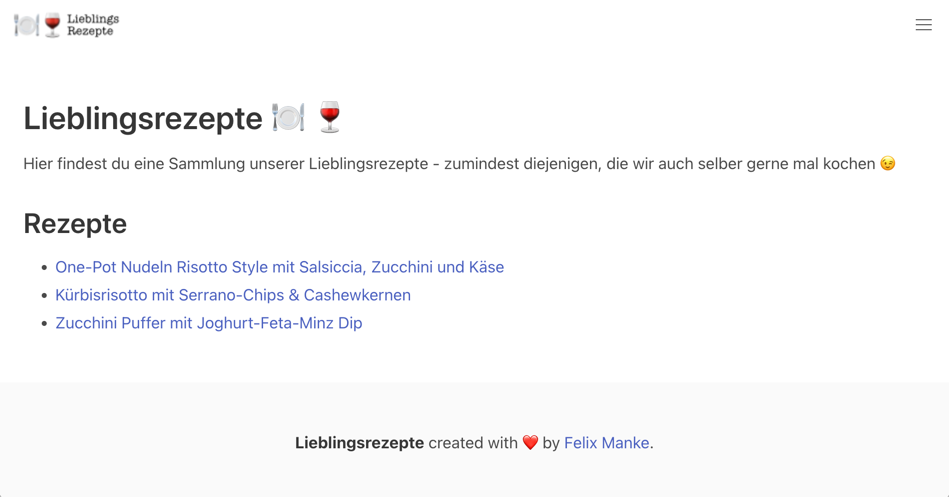
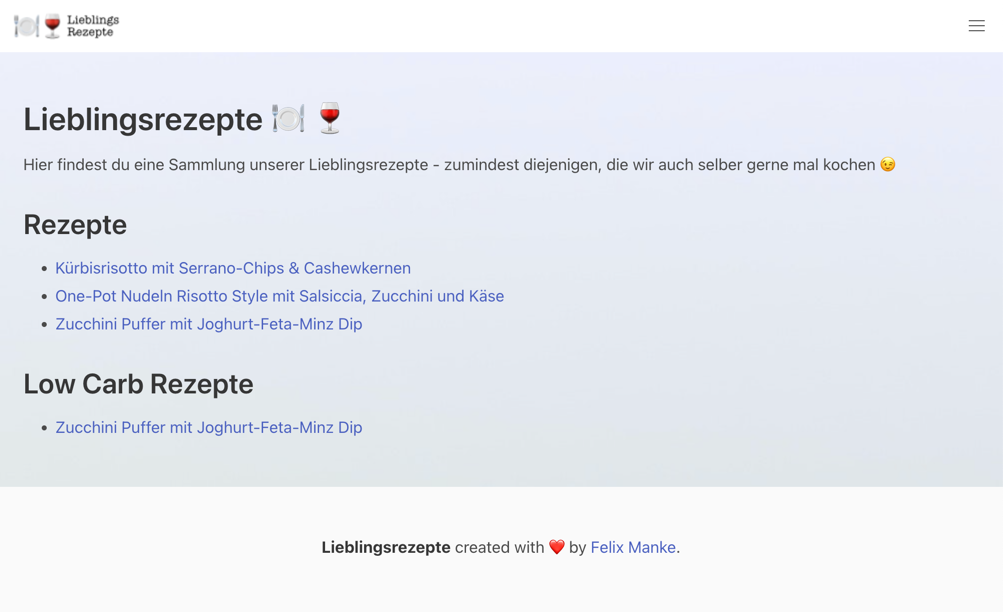
Update README and project screenshot
Re-created the project screenshot to match the current state.
Also, fixed a wrong link in the README file and deleted old background
images.

diff --git a/content/_includes/css/custom.css b/content/_includes/css/custom.css
@@ -1,8 +1,7 @@
 
 body {
-  background-image: url('/img/bg_04.jpg');
+  background-image: url('/img/bg_01.jpg');
 }
-.recipe {}
 
 .recipe img {
   border-radius: 1em;
@@ -14,4 +13,3 @@ body {
   object-fit: cover;
   border-radius: 1em;
 }
-

diff --git a/README.md b/README.md
@@ -182,7 +182,7 @@ Distributed under the MIT License. See `LICENSE.txt` for more information.
 [issues-shield]: https://img.shields.io/github/issues/fmstuff/lieblingsrezepte.svg?style=for-the-badge
 [issues-url]: https://github.com/fmstuff/lieblingsrezepte/issues
 [license-shield]: https://img.shields.io/github/license/fmstuff/lieblingsrezepte.svg?style=for-the-badge
-[license-url]: https://github.com/fmstuff/lieblingsrezepte/blob/master/LICENSE.txt
+[license-url]: https://github.com/fmstuff/lieblingsrezepte/blob/main/LICENSE.txt
 [eleventy-url]: https://www.11ty.dev/
 [product-screenshot]: ./images/project_screenshot.png
 [alpine-js-url]: https://alpinejs.dev/
